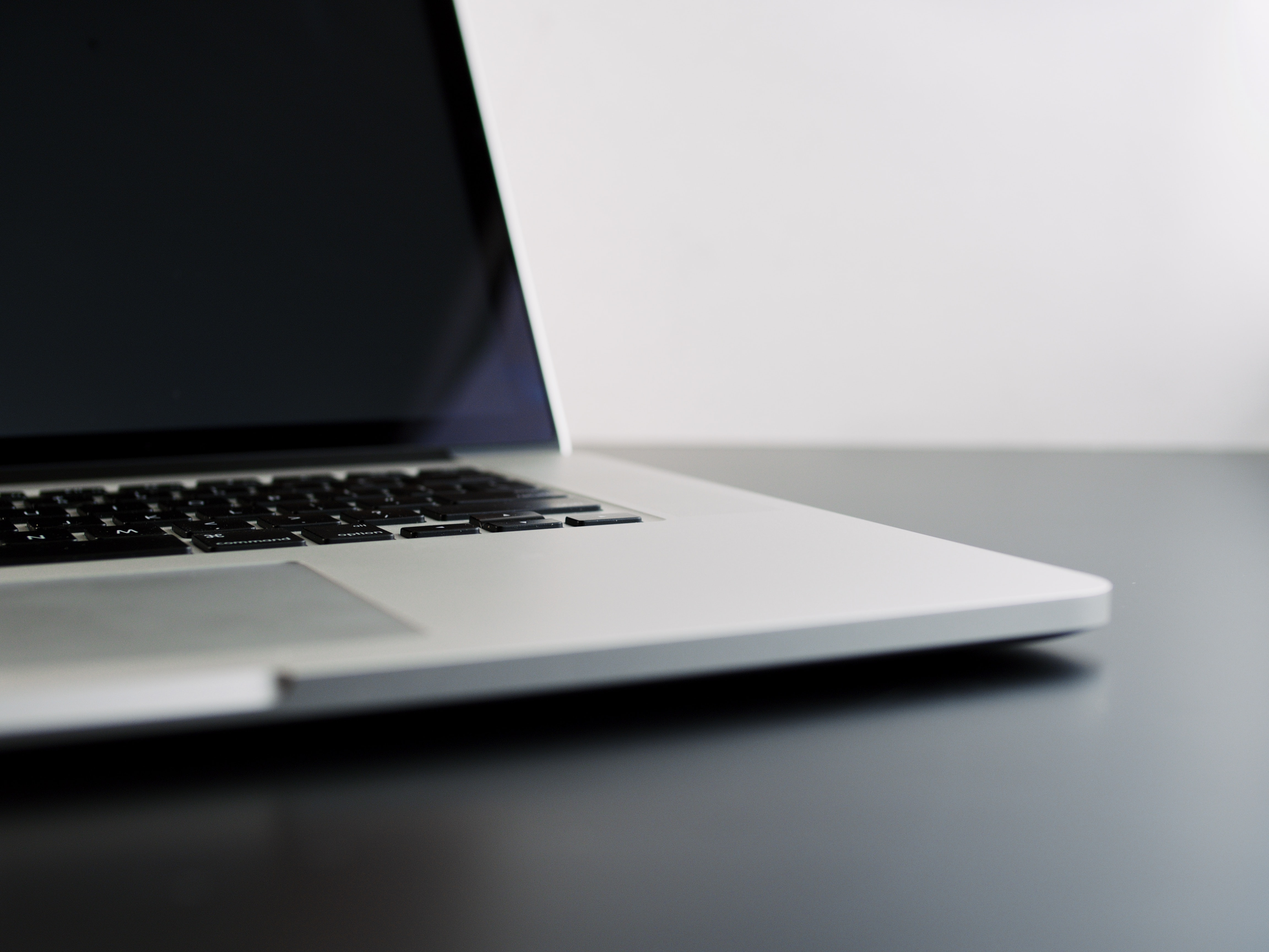
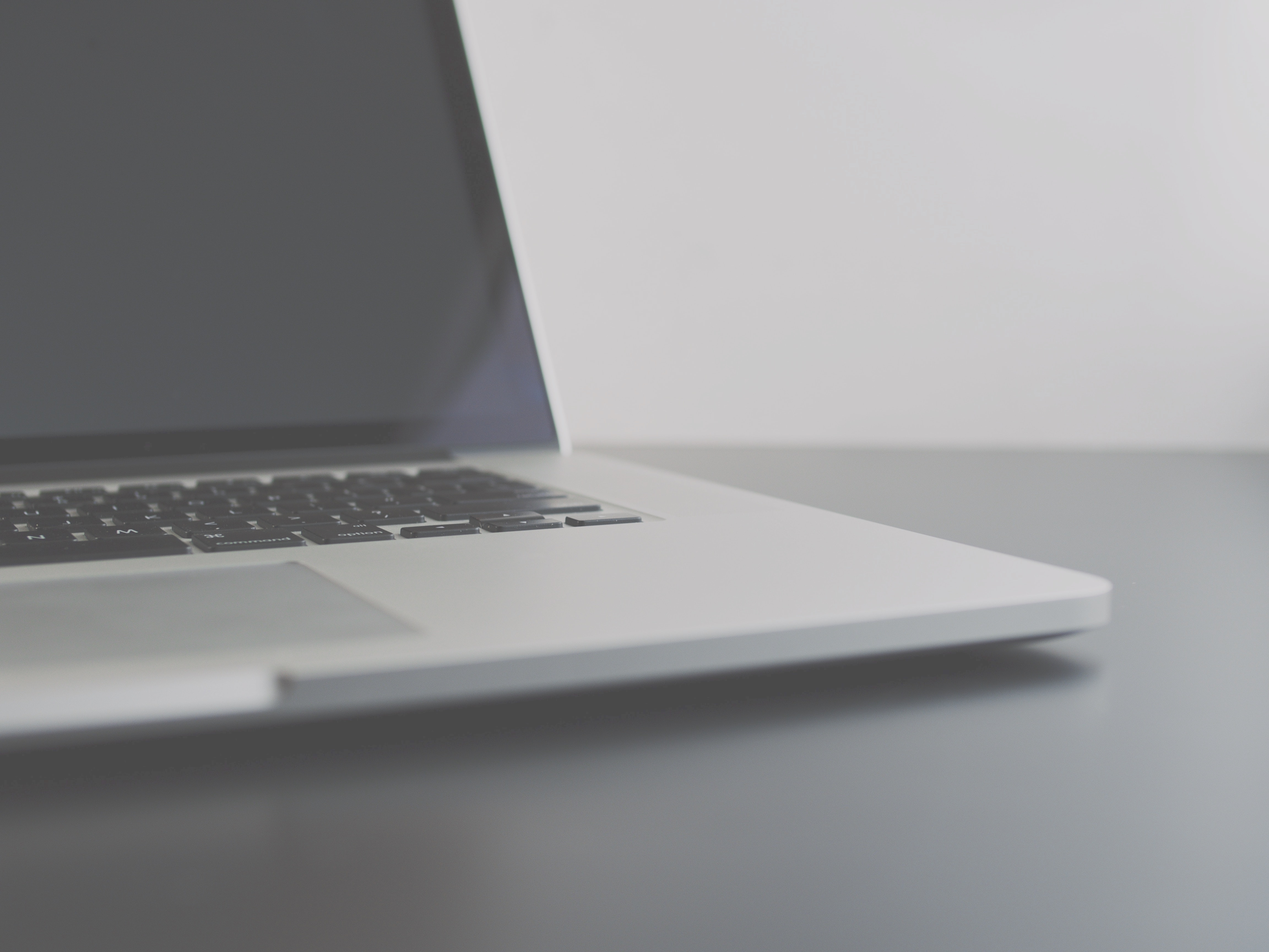
complete section 3 -small

diff --git a/src/pages/Landing/Landing.jsx b/src/pages/Landing/Landing.jsx
@@ -20,7 +20,7 @@ const Landing = ({ user, handleLogout, signInFormStatus, setSignInFormStatus,  h
           <div className="reg-nav">
             <ul>
               <li><button className='sign-in-button' onClick={() => setSignInFormStatus(!signInFormStatus)}>Sign In</button></li>
-              <li><button className="sign-up-button" onClick={() => setSignUpFormStatus(!signUpFormStatus)}>Create Account</button></li>
+              <li><button className="sign-up-button" onClick={() => setSignUpFormStatus(!signUpFormStatus)}>Get Started</button></li>
             </ul>
           </div>
         }
@@ -55,9 +55,7 @@ const Landing = ({ user, handleLogout, signInFormStatus, setSignInFormStatus,  h
       </section>
       <section className="spacer2"></section>
       <section className="three">
-        <h1 className='CTA'>Start your Folio today!</h1>
-        <h2>Whether you have previous work looking for an organized place to live, or are looking to have a great tool in your work as a freelancer, you can do it all with Folio. </h2>
-        <h1>Get Started</h1>
+        <h2>Whether you have previous work looking for an organized place to live, or are looking to have a great tool for your work as a freelancer, you can do it all with Folio. </h2>
       </section>
     </div>
   )

diff --git a/src/pages/Landing/landing.scss b/src/pages/Landing/landing.scss
@@ -50,7 +50,7 @@
   
   .three {
     height: 50vh;
-    background-image: url('../../images/Project-phot7.jpeg');
+    background-image: url('../../images/Project-photo2.jpg');
     background-size: cover;
     background-repeat: no-repeat;
   }
@@ -98,11 +98,27 @@
     margin-left: 66vw;
     font-size: 1.25rem;
   }
+  .sign-up-button {
+    position: relative;
+    background-color: $mid1;
+    width: 22vw;
+    margin-left: 66vw;
+    font-size: 1.25rem;
+  }
 
   .two {
     min-height: 46vh;
     p {
       font-size: 1.25rem;
+    }
+  }
+
+  .three {
+    h2 {
+      width: 52%;
+      margin-left: 48%;
+      padding-top: 2%;
+      font-size: 1rem;
     }
   }
 }
@@ -206,13 +222,5 @@
 
 
 
-.sign-up-button {
-  position: relative;
-  background-color: $mid1;
-  width: 20vw;
-  margin-top: -10vh;
-  margin-right: 0%;
-  margin-left: 45vw;
-  font-size: 2.5vw;
-}
+
 
